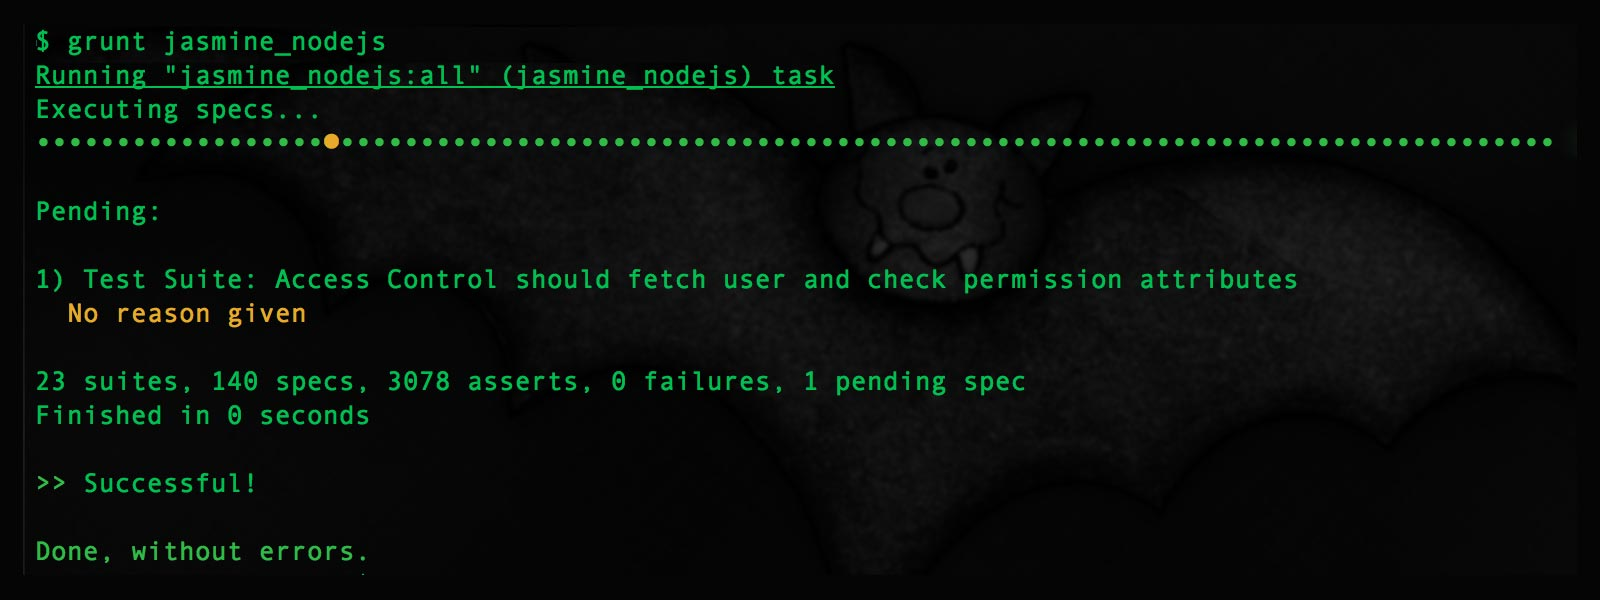
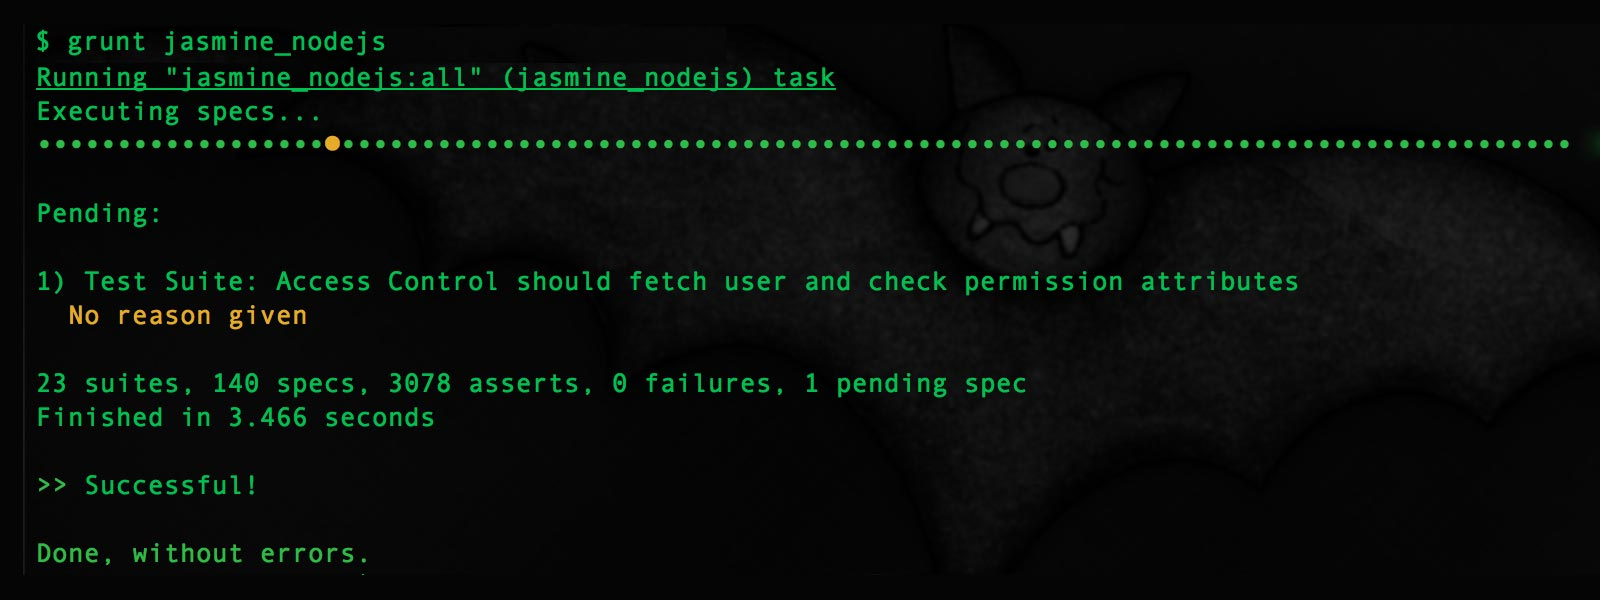
updated reporter

diff --git a/tasks/lib/jasmine.reporter.js b/tasks/lib/jasmine.reporter.js
@@ -33,11 +33,25 @@ module.exports = (function () {
         return newArr.join('\n');
     }
 
-    var noop = function () {},
-        noopTimer = {
-            start: noop,
-            elapsed: function () { return 0; }
+    //----------------------------
+    //  CLASS: Timer
+    //----------------------------
+
+    function Timer() {
+        var startTime = 0,
+            endTime = 0;
+        this.start = function () {
+            startTime = Date.now();
         };
+        this.stop = function () {
+            endTime = Date.now();
+        };
+        this.elapsed = function () {
+            this.stop();
+            var t = (endTime - startTime) / 1000;
+            return t.toFixed(3);
+        };
+    }
 
     //----------------------------
     //  CLASS: JasmineReporter
@@ -46,8 +60,8 @@ module.exports = (function () {
     function JasmineReporter(options) {
         var print = options.print,
             showColors = options.showColors || false,
-            onComplete = options.onComplete || noop,
-            timer = options.timer || noopTimer,
+            onComplete = options.onComplete || function () {},
+            timer = options.timer || new Timer(),
             jasmineCorePath = options.jasmineCorePath,
             suiteCount,
             specCount,
@@ -185,7 +199,7 @@ module.exports = (function () {
             }
 
             printNewline();
-            var seconds = timer.elapsed() / 1000;
+            var seconds = timer.elapsed(); // / 1000;
             print('Finished in ' + seconds + ' ' + plural('second', seconds));
             printNewline();
             printNewline();

diff --git a/README.md b/README.md
@@ -81,5 +81,8 @@ grunt.loadNpmTasks('grunt-jasmine-nodejs');
 
 ## Changelog
 
+ - v0.3.1 (2015-02-07)  
+    Fixed timer (zero elapsed time) issue in `jasmine.reporter.js`.  
+
  - v0.3.0 (2015-02-07)  
-    Update Jasmine-core to latest version (2.2.1). Added reporter for Jasmine output.
+    Updated Jasmine-core to latest version (2.2.1). Added reporter for Jasmine output.
